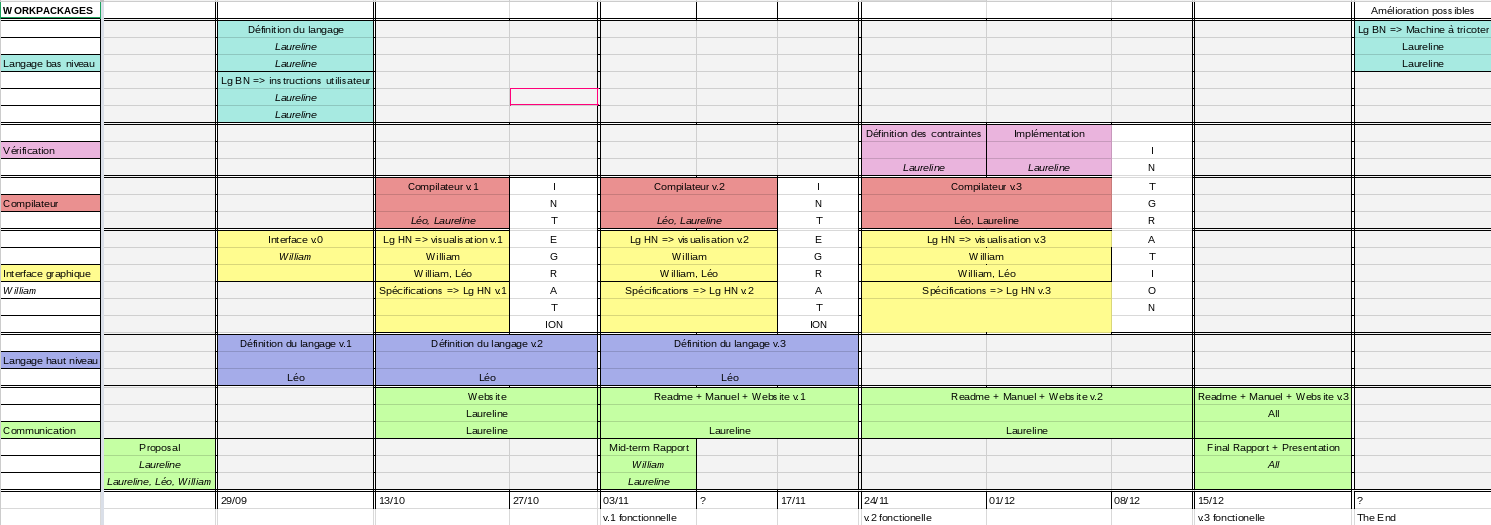
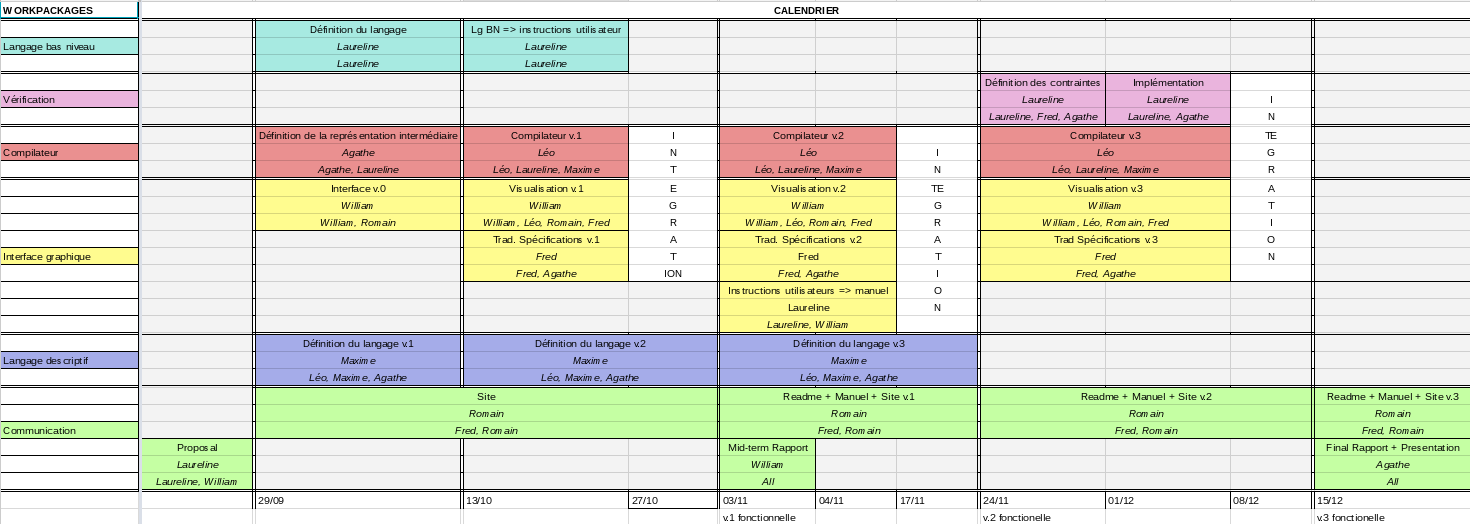
Proposal

diff --git a/proposal.tex b/proposal.tex
@@ -413,7 +413,8 @@ fusions de mailles (qui sont notamment utilisées pour créer des trous dans un 
 
 Enfin, la troisième version s'attaquerait à l'opération la plus complexe que nous avons prévu de manipuler : les tresses, où plusieurs portions
 de l'ouvrage peuvent se croiser, introduisant ainsi des difficultés supplémentaires dans le suivi du parcours du fil.
-% TODO : Contenu (approximatif) des différentes versions (Agathe ?).
+
+Au niveau des fonctionnalités, la visuualisation des instructions sous forme de tutoriel ne sera intégrée au logiciel qu'à partir de la version 2.
 
 \subsection{Groupes de travail et tâches\label{workpackages}}
 
@@ -588,12 +589,20 @@ version en cours du logiciel.
 
 \end{itemize}
 
+\subsection{Dépendances des tâches}
+
+Au niveau des tâches tournant autour du langage bas niveau, la tâche de transformation des instructions utilisateur en tutoriel affiché dans l'interface graphique doit se faire après la tâche de traduction du langage bas niveau en instructions utilisateur, qui elle-même doit se faire après la tâche de définition du langage bas niveau.
+
+Au niveau des tâche de compilation, pour chaque version, les tâches de compilation, de visualisation, de traduction des spécification et de vérification (quand elle est nécessaire) peuvent se faire en parallèle, mais seulement après la définition du langage descriptif.
+
+Enfin, les version se font successivement dans le temps, car elles servent de base les une aux autres.
+
 
 \subsection{\label{calendrier}Calendrier prévisionnel}
 
-Globalement, nous comptons un délai de trois semaines pour chaque version (sauf la première qui sera plus longue à mettre en route).
+Globalement, nous comptons un délai de trois semaines pour chaque version (sauf la première qui sera plus longue à mettre en route). L'agencement précis des tâches dans le temps a été fait en prenant en compte les dépendances de chacune des tâches.
 
-Nous décrivons dans cette section la répartition temporelle des tâches précédentes avec un planning (voir ci-dessous).
+Nous décrivons dans cette section la répartition temporelle des tâches précédentes avec un planning (voir ci-dessous). Il s'agit d'un planning sur un document collaboratif, qui sera mis à jour au cours du projet.
 
 Pour la plupart des tâches, deux semaines sont prévues. Le principe est que si une tâche prend plus de temps que prévu, retardant de la même toutes les autres dépendant d'elle, nous essayerons d'effectuer celles-ci en une semaine. De plus la dernière semaine étant uniquement consacrée à des tâches de rédaction, elle pourrait servir à rattraper d'éventuels retards.
 
